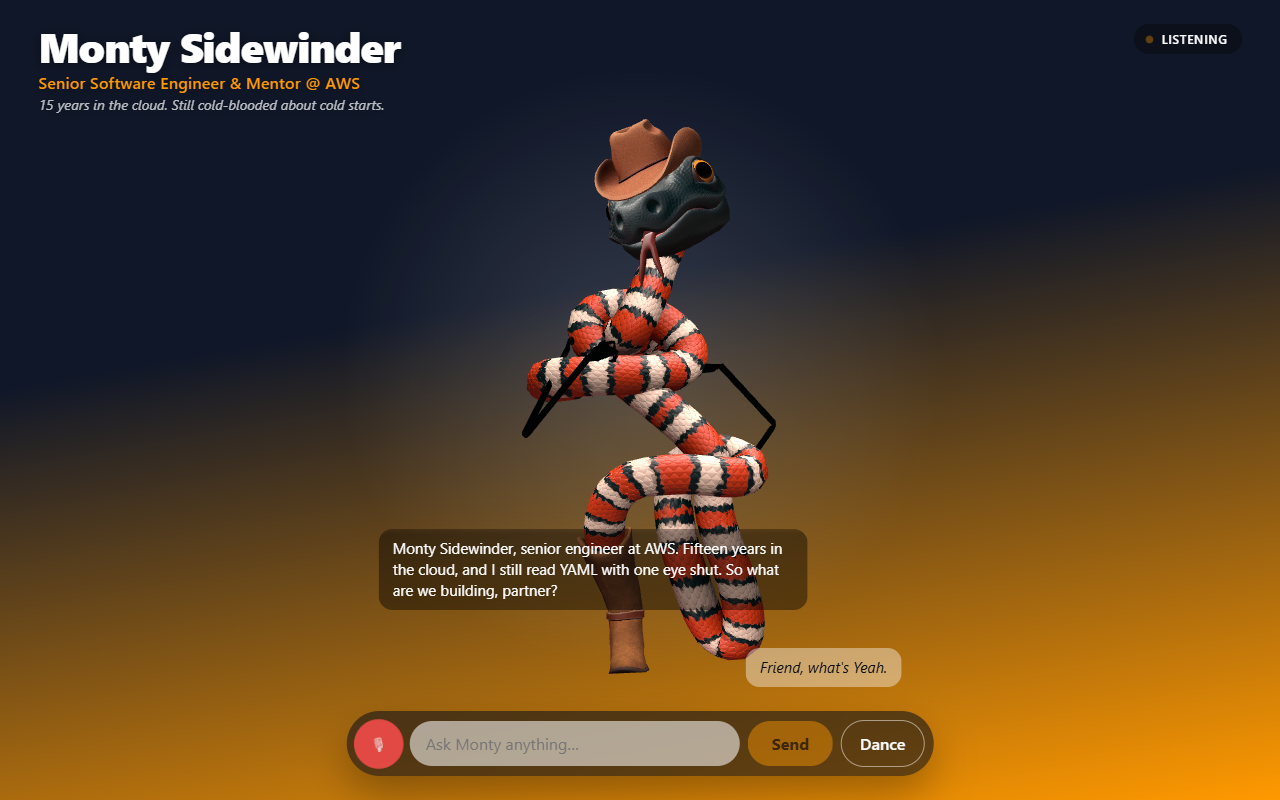
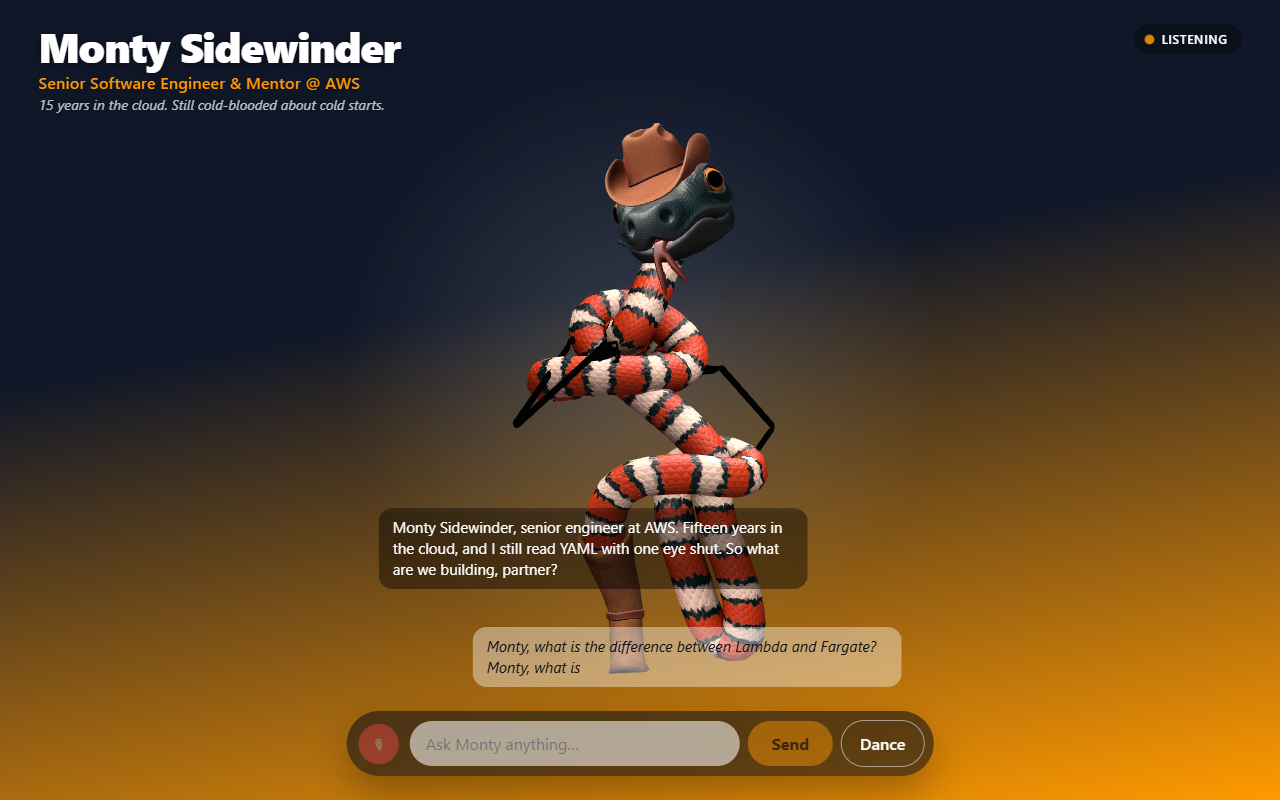
Harden reply sequencing and final browser checks

Changed region(s): [[0.2812, 0.1562, 0.7188, 0.875], [0.25, 0.875, 0.3125, 0.9688], [0.5938, 0.5, 0.625, 0.5312]]

diff --git a/public/js/main.js b/public/js/main.js
@@ -61,6 +61,7 @@ let dancing = false;
 let listening = false;
 let micTimer = null;
 let liveLine = null;
+let turn = 0; // so a stale answer cannot grab the stage back
 
 /* ------------------------------------------------------------------ helpers */
 
@@ -243,6 +244,7 @@ function handle(message) {
 
 /** Say one answer out loud: face, bubble, lip sync, then the move. */
 async function perform(message) {
+  const mine = ++turn; // a newer answer wins; this one bows out quietly
   if (liveLine) {
     liveLine.remove();
     liveLine = null;
@@ -260,17 +262,19 @@ async function perform(message) {
     console.error('voice playback failed', err);
     await sleep(readingTime(message.text));
   }
+  if (mine !== turn) return;
 
   hideBubble();
   character.setEmotion('neutral');
   character.setViseme(null);
 
-  await doMove(message.move);
+  await doMove(message.move, mine);
+  if (mine !== turn) return;
   setBusy(false);
 }
 
 /** Bonus B: the move the AI picked for this answer. */
-async function doMove(name) {
+async function doMove(name, mine = turn) {
   const move = name && name !== 'none' ? moves.get(name) : null;
   if (!move) {
     if (!dancing) setPhase('idle');
@@ -284,7 +288,9 @@ async function doMove(name) {
 
   el.state.hidden = true;
   await character.playOnce(move.name);
+  if (mine !== turn) return;
   if (move.recover) await character.playOnce(move.recover, STAND_UP);
+  if (mine !== turn) return;
   setPhase('idle');
 }
 

diff --git a/_final_check.py b/_final_check.py
@@ -1,0 +1,245 @@
+"""Temporary: the awkward paths. Errors, no audio, moves, the 30 s cap."""
+
+import asyncio
+import sys
+
+from playwright.async_api import async_playwright
+
+# Keep a handle on the page's socket so we can hand it crafted messages.
+FAKE_MIC = """
+(() => {
+  const build = async () => {
+    const ctx = window.__micCtx || (window.__micCtx = new AudioContext());
+    if (ctx.state === 'suspended') await ctx.resume();
+    const bytes = await fetch('/_fake-mic.wav').then((r) => r.arrayBuffer());
+    const buffer = await ctx.decodeAudioData(bytes);
+    const destination = ctx.createMediaStreamDestination();
+    const source = ctx.createBufferSource();
+    source.buffer = buffer;
+    source.loop = true;
+    source.connect(destination);
+    source.start();
+    return destination.stream;
+  };
+  Object.defineProperty(navigator.mediaDevices, 'getUserMedia', {
+    configurable: true,
+    value: build,
+  });
+})();
+"""
+
+TAP = """
+(() => {
+  const Real = window.WebSocket;
+  const Wrapped = function (...args) {
+    const ws = new Real(...args);
+    window.__ws = ws;
+    return ws;
+  };
+  Wrapped.prototype = Real.prototype;
+  Wrapped.OPEN = Real.OPEN;
+  Wrapped.CLOSED = Real.CLOSED;
+  window.WebSocket = Wrapped;
+})();
+"""
+
+
+def deliver(payload: str) -> str:
+    return f"() => window.__ws.onmessage({{ data: JSON.stringify({payload}) }})"
+
+
+async def main() -> int:
+    problems: list[str] = []
+
+    async with async_playwright() as pw:
+        browser = await pw.chromium.launch(
+            headless=True,
+            channel="chrome",
+            args=[
+                "--use-gl=angle",
+                "--use-angle=swiftshader",
+                "--enable-unsafe-swiftshader",
+                "--autoplay-policy=no-user-gesture-required",
+                "--mute-audio",
+            ],
+        )
+        context = await browser.new_context(viewport={"width": 1280, "height": 800})
+        await context.add_init_script(TAP)
+        page = await context.new_page()
+        page.on("pageerror", lambda e: problems.append(f"PAGE ERROR: {e}"))
+
+        await page.goto("http://127.0.0.1:8000", wait_until="domcontentloaded")
+        await page.wait_for_function(
+            "document.getElementById('gate-btn').disabled === false", timeout=180_000
+        )
+        await page.click("#gate-btn")
+        await page.wait_for_function(
+            "document.getElementById('send').disabled === false", timeout=120_000
+        )
+        print("greeting done")
+
+        # ---------------------------------------------------- a friendly error
+        await page.fill("#input", "this one is going to fail")
+        await page.press("#input", "Enter")
+        await asyncio.sleep(0.6)
+        busy = await page.evaluate("() => window.monty.snapshot().busy")
+        print("send locked while waiting:", busy)
+        if not busy:
+            problems.append("Send was not locked while waiting for an answer")
+
+        await page.evaluate(
+            deliver('{ type: "error", message: "My brain just dropped the connection. Try me again?" }')
+        )
+        await asyncio.sleep(0.5)
+        state = await page.evaluate(
+            """() => ({
+              oops: document.querySelector('#transcript .oops')?.textContent || '',
+              toast: document.getElementById('toast').classList.contains('on'),
+              busy: window.monty.snapshot().busy,
+              animation: window.monty.snapshot().animation,
+              bubble: document.getElementById('bubble').classList.contains('on'),
+            })"""
+        )
+        print("after the error:", state)
+        if "Try me again" not in state["oops"]:
+            problems.append("the error was not shown in the conversation")
+        if not state["toast"]:
+            problems.append("no toast for the error")
+        if state["busy"]:
+            problems.append("still locked after an error: the user cannot retry")
+        if state["animation"] != "idle":
+            problems.append(f"should be idle after an error, got {state['animation']}")
+        await page.screenshot(path="_shot-9-error.png")
+
+        # the user can retry straight away
+        await page.fill("#input", "ok, retrying")
+        await page.press("#input", "Enter")
+        await asyncio.sleep(0.5)
+        if not await page.evaluate("() => window.monty.snapshot().busy"):
+            problems.append("retry after an error did not go through")
+        await page.wait_for_function(
+            "document.getElementById('send').disabled === false", timeout=90_000
+        )
+        print("retry answered:", await page.evaluate(
+            "() => [...document.querySelectorAll('#transcript .him')].pop().textContent"
+        ))
+
+        # -------------------------------------------- an answer with no audio
+        await page.evaluate(
+            deliver(
+                '{ type: "reply", text: "Polly lost her voice, but I can still read.",'
+                ' emotion: "relaxed", move: "none", audio: null, visemes: [] }'
+            )
+        )
+        await asyncio.sleep(0.8)
+        silent = await page.evaluate(
+            """() => ({
+              bubble: document.getElementById('bubble').textContent,
+              on: document.getElementById('bubble').classList.contains('on'),
+              animation: window.monty.snapshot().animation,
+            })"""
+        )
+        print("no-audio reply:", silent)
+        if "lost her voice" not in silent["bubble"] or not silent["on"]:
+            problems.append("a reply without audio did not show up in the bubble")
+        if silent["animation"] != "talking":
+            problems.append(f"expected talking for a silent reply, got {silent['animation']}")
+
+        # ------------------------------------------------ fall-flat, then up
+        await page.evaluate(
+            deliver(
+                '{ type: "reply", text: "You did what on a Friday?",'
+                ' emotion: "angry", move: "fall-flat", audio: null, visemes: [] }'
+            )
+        )
+        seen = []
+        for _ in range(140):  # ~21 s: the stand-up clip is long
+            snap = await page.evaluate("() => window.monty.snapshot().animation")
+            if not seen or seen[-1] != snap:
+                seen.append(snap)
+            if len(seen) >= 2 and seen[-1] == "idle" and "stand-up" in seen:
+                break
+            await asyncio.sleep(0.15)
+        print("move sequence:", seen)
+        if "fall-flat" not in seen or "stand-up" not in seen:
+            problems.append(f"fall-flat did not play out properly: {seen}")
+        elif seen.index("fall-flat") > seen.index("stand-up"):
+            problems.append(f"stand-up came before fall-flat: {seen}")
+        if seen[-1] != "idle":
+            problems.append(f"did not settle back to idle: {seen}")
+
+        # --------------------------------- a looping move starts after the voice
+        await page.evaluate(
+            deliver(
+                '{ type: "reply", text: "We shipped it!", emotion: "happy",'
+                ' move: "dance", audio: null, visemes: [] }'
+            )
+        )
+        await asyncio.sleep(0.5)
+        during = await page.evaluate("() => window.monty.snapshot()")
+        print("while still speaking:", during["animation"], "| dancing:", during["dancing"])
+        if during["dancing"]:
+            problems.append("the dance started before the voice finished")
+
+        for _ in range(80):
+            snap = await page.evaluate("() => window.monty.snapshot()")
+            if snap["dancing"]:
+                break
+            await asyncio.sleep(0.2)
+        print("after the voice:", snap["animation"], "| dancing:", snap["dancing"])
+        if not snap["dancing"] or snap["animation"] != "dance":
+            problems.append("the dance move never started")
+        music = await page.evaluate(
+            "() => { const m = window.monty.speaker.music;"
+            " return m ? { paused: m.paused, loop: m.loop } : null; }"
+        )
+        print("music:", music)
+        if not music or music["paused"] or not music["loop"]:
+            problems.append("the dance music did not loop")
+        await page.screenshot(path="_shot-10-dance-move.png")
+
+        # sending a message stops the dance
+        await page.fill("#input", "alright, stop dancing")
+        await page.press("#input", "Enter")
+        await asyncio.sleep(0.6)
+        stopped = await page.evaluate("() => window.monty.snapshot()")
+        print("after sending:", stopped["animation"], "| dancing:", stopped["dancing"])
+        if stopped["dancing"]:
+            problems.append("sending a message did not stop the dance")
+        await page.wait_for_function(
+            "document.getElementById('send').disabled === false", timeout=90_000
+        )
+
+        # ------------------------------------------------- the 30 second cap
+        print("holding the microphone for 35 s to check the cap…")
+        box = await page.locator("#mic").bounding_box()
+        await page.mouse.move(box["x"] + box["width"] / 2, box["y"] + box["height"] / 2)
+        await page.mouse.down()
+        capped_at = None
+        for i in range(74):
+            await asyncio.sleep(0.5)
+            if not await page.evaluate("() => window.monty.snapshot().listening"):
+                capped_at = (i + 1) * 0.5
+                break
+        await page.mouse.up()
+        print("stopped listening after", capped_at, "s")
+        if capped_at is None:
+            problems.append("the microphone never stopped itself")
+        elif not 28 <= capped_at <= 34:
+            problems.append(f"the 30 s cap fired at {capped_at}s")
+
+        toast = await page.evaluate("() => document.getElementById('toast').textContent")
+        print("toast:", repr(toast))
+
+        await browser.close()
+
+    print("\n--- verdict ---")
+    if problems:
+        for p in problems:
+            print("  FAIL:", p)
+        return 1
+    print("  the awkward paths hold up")
+    return 0
+
+
+sys.exit(asyncio.run(main()))
